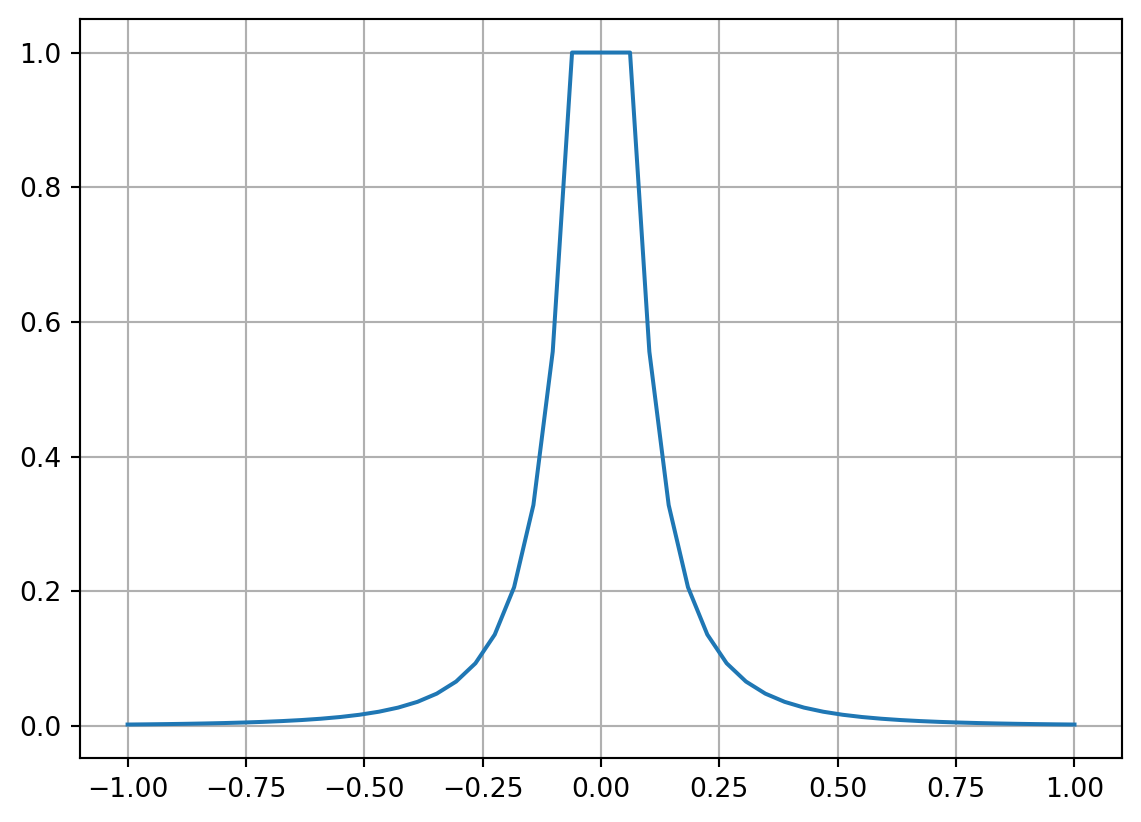
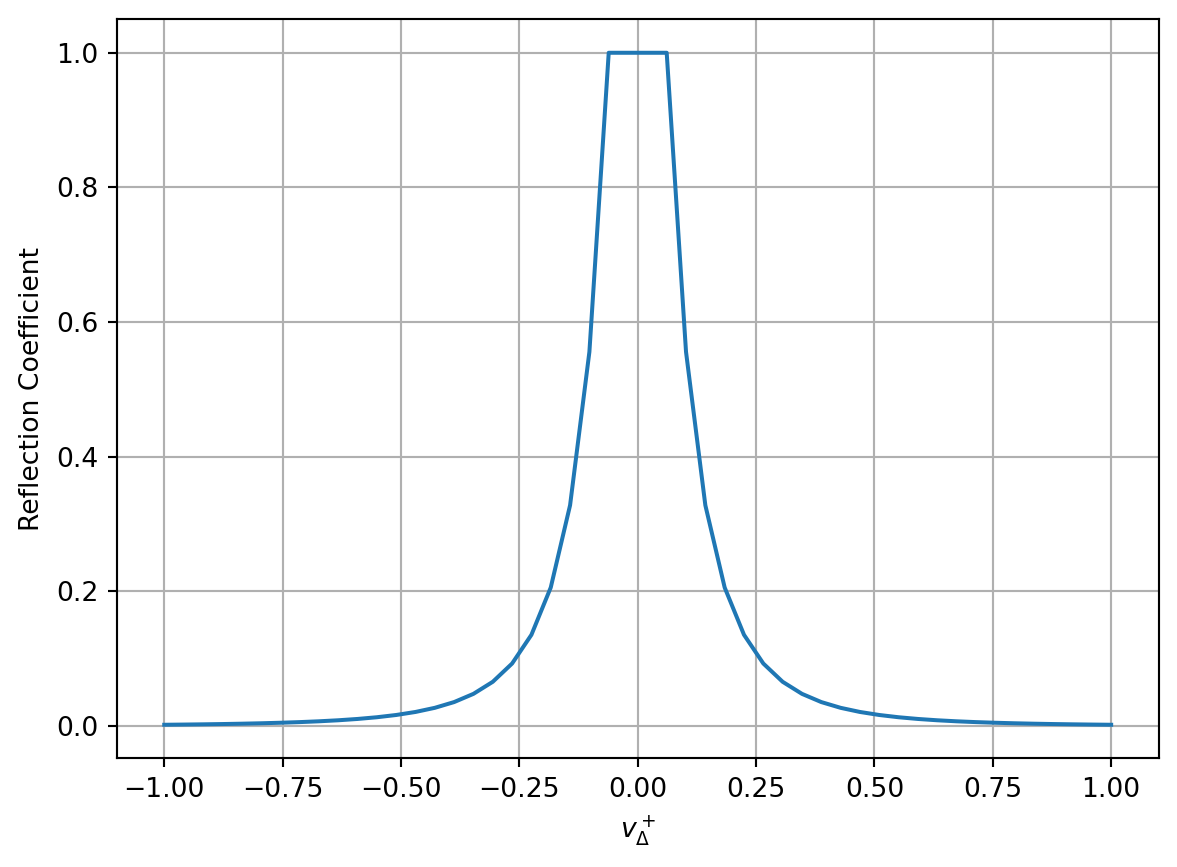
Spellcheck

Changed region(s): [[0.0, 0.0, 1.0, 0.9732], [0.7055, 0.517, 0.7669, 0.5779], [0.3067, 0.517, 0.3681, 0.5779]]

diff --git a/docs/posts/bow_table/bow_table.html b/docs/posts/bow_table/bow_table.html
@@ -6,10 +6,9 @@
 
 <meta name="viewport" content="width=device-width, initial-scale=1.0, user-scalable=yes">
 
-<meta name="author" content="Alexandre St-Onge">
 <meta name="dcterms.date" content="2023-09-16">
 
-<title>SegfaultDSP - Bow Table</title>
+<title>SegfaultDSP - BowedString Part 2: Bow Table</title>
 <style>
 code{white-space: pre-wrap;}
 span.smallcaps{font-variant: small-caps;}
@@ -135,19 +134,13 @@ pre > code.sourceCode > span > a:first-child::before { text-decoration: underlin
 <header id="title-block-header" class="quarto-title-block default page-columns page-full">
   <div class="quarto-title-banner page-columns page-full">
     <div class="quarto-title column-body">
-      <h1 class="title">Bow Table</h1>
+      <h1 class="title">BowedString Part 2: Bow Table</h1>
                       </div>
   </div>
     
   
   <div class="quarto-title-meta">
 
-      <div>
-      <div class="quarto-title-meta-heading">Author</div>
-      <div class="quarto-title-meta-contents">
-               <p>Alexandre St-Onge </p>
-            </div>
-    </div>
       
       <div>
       <div class="quarto-title-meta-heading">Published</div>
@@ -170,10 +163,13 @@ pre > code.sourceCode > span > a:first-child::before { text-decoration: underlin
 
 
 
+<p>Now that we have our working waveguide, we need something to excite it. This is done with the help of a <a href="https://ccrma.stanford.edu/~jos/BowedStrings/Simplified_Piecewise_Linear_Bow.html">bow table</a>. While the linear bow table would be simple to implement, we would need to know the capture or break-away differential velocity value <span class="math inline">\(v_\Delta^c\)</span> and also how this value responds to varying force values. I could not find a simple way to find these values but luckily, the <a href="https://github.com/thestk/stk">STK</a> library has a bow table that we can reuse.</p>
 <p>Let’s take a look at the bow table as defined in the <a href="https://github.com/thestk/stk/blob/d0345712db51a01d8d6ca44980c56798a54b0fc3/include/BowTable.h#L84">stk</a>:</p>
-<p><span class="math display">\[ BowTable(v_\Delta^+) = \min \left \{(|v_\Delta^+|*f_{bow} + 0.75)^{-4}, 1 \right \} \]</span></p>
-<p>Where <span class="math inline">\(v_\Delta^+\)</span> is the velocity of the bow minus the velocity of the string going into the bow and <span class="math inline">\(f_{bow}\)</span> is the bow force. While the equation may seem daunting at first, we can easily plot it and immediatly recognize a shape similar to the linear bow table as presented by figure <a href="https://ccrma.stanford.edu/~jos/pasp/Bow_String_Scattering_Junction.html">9.54</a> in Physical Audio Signal Processing by Julius O. Smith.</p>
+<p><span class="math display">\[ BowTable(v_\Delta^+) = \min \left \{(|v_\Delta^+|*Slope + 0.75)^{-4}, 1 \right \} \]</span></p>
+<p>Where <span class="math inline">\(v_\Delta^+\)</span> is the velocity of the bow minus the velocity of the string going into the bow and <span class="math inline">\(Slope\)</span> is the parameter that controls the shape of the table and is related to the bow force. While the equation may seem daunting at first, we can easily plot it and immediately recognize a shape similar to the linear bow table as presented by figure <a href="https://ccrma.stanford.edu/~jos/pasp/Bow_String_Scattering_Junction.html">9.54</a> in Physical Audio Signal Processing by Julius O. Smith.</p>
 <div class="cell" data-execution_count="1">
+<details>
+<summary>Code</summary>
 <div class="sourceCode cell-code" id="cb1"><pre class="sourceCode python code-with-copy"><code class="sourceCode python"><span id="cb1-1"><a href="#cb1-1" aria-hidden="true" tabindex="-1"></a><span class="im">import</span> numpy <span class="im">as</span> np</span>
 <span id="cb1-2"><a href="#cb1-2" aria-hidden="true" tabindex="-1"></a><span class="im">import</span> matplotlib.pyplot <span class="im">as</span> plt</span>
 <span id="cb1-3"><a href="#cb1-3" aria-hidden="true" tabindex="-1"></a><span class="im">from</span> matplotlib.ticker <span class="im">import</span> MultipleLocator</span>
@@ -185,13 +181,18 @@ pre > code.sourceCode > span > a:first-child::before { text-decoration: underlin
 <span id="cb1-9"><a href="#cb1-9" aria-hidden="true" tabindex="-1"></a></span>
 <span id="cb1-10"><a href="#cb1-10" aria-hidden="true" tabindex="-1"></a>plt.figure(<span class="dv">1</span>)</span>
 <span id="cb1-11"><a href="#cb1-11" aria-hidden="true" tabindex="-1"></a>plt.plot(v_delta, output)</span>
-<span id="cb1-12"><a href="#cb1-12" aria-hidden="true" tabindex="-1"></a>plt.grid()</span></code><button title="Copy to Clipboard" class="code-copy-button"><i class="bi"></i></button></pre></div>
+<span id="cb1-12"><a href="#cb1-12" aria-hidden="true" tabindex="-1"></a>plt.xlabel(<span class="st">'$v_\Delta^+$'</span>)</span>
+<span id="cb1-13"><a href="#cb1-13" aria-hidden="true" tabindex="-1"></a>plt.ylabel(<span class="st">'Reflection Coefficient'</span>)</span>
+<span id="cb1-14"><a href="#cb1-14" aria-hidden="true" tabindex="-1"></a>plt.grid()</span></code><button title="Copy to Clipboard" class="code-copy-button"><i class="bi"></i></button></pre></div>
+</details>
 <div class="cell-output cell-output-display">
-<p><img src="bow_table_files/figure-html/cell-2-output-1.png" width="571" height="411"></p>
+<p><img src="bow_table_files/figure-html/cell-2-output-1.png" alt="A graph showing the bow table as defined in the stk" width="589" height="434"></p>
 </div>
 </div>
-<p>We can now observe how varying the force transform bow table.</p>
+<p>We can now observe how varying the force transforms the bow table.</p>
 <div class="cell" data-execution_count="2">
+<details>
+<summary>Code</summary>
 <div class="sourceCode cell-code" id="cb2"><pre class="sourceCode python code-with-copy"><code class="sourceCode python"><span id="cb2-1"><a href="#cb2-1" aria-hidden="true" tabindex="-1"></a>v_delta <span class="op">=</span> np.linspace(<span class="op">-</span><span class="dv">1</span>, <span class="dv">1</span>, <span class="dv">100</span>)</span>
 <span id="cb2-2"><a href="#cb2-2" aria-hidden="true" tabindex="-1"></a></span>
 <span id="cb2-3"><a href="#cb2-3" aria-hidden="true" tabindex="-1"></a>plt.figure(<span class="dv">2</span>)</span>
@@ -199,42 +200,49 @@ pre > code.sourceCode > span > a:first-child::before { text-decoration: underlin
 <span id="cb2-5"><a href="#cb2-5" aria-hidden="true" tabindex="-1"></a>    output <span class="op">=</span> np.minimum(<span class="bu">pow</span>(<span class="bu">abs</span>(v_delta) <span class="op">*</span> f <span class="op">+</span> <span class="fl">0.75</span>, <span class="op">-</span><span class="dv">4</span>), <span class="dv">1</span>)</span>
 <span id="cb2-6"><a href="#cb2-6" aria-hidden="true" tabindex="-1"></a>    plt.plot(v_delta, output, label<span class="op">=</span><span class="ss">f'force=</span><span class="sc">{</span>f<span class="sc">}</span><span class="ss">'</span>)</span>
 <span id="cb2-7"><a href="#cb2-7" aria-hidden="true" tabindex="-1"></a>plt.legend()</span>
-<span id="cb2-8"><a href="#cb2-8" aria-hidden="true" tabindex="-1"></a>plt.grid()</span></code><button title="Copy to Clipboard" class="code-copy-button"><i class="bi"></i></button></pre></div>
+<span id="cb2-8"><a href="#cb2-8" aria-hidden="true" tabindex="-1"></a>plt.xlabel(<span class="st">'$v_</span><span class="ch">\\</span><span class="st">Delta^+$'</span>)</span>
+<span id="cb2-9"><a href="#cb2-9" aria-hidden="true" tabindex="-1"></a>plt.ylabel(<span class="st">'Reflection Coefficient'</span>)</span>
+<span id="cb2-10"><a href="#cb2-10" aria-hidden="true" tabindex="-1"></a>plt.grid()</span></code><button title="Copy to Clipboard" class="code-copy-button"><i class="bi"></i></button></pre></div>
+</details>
 <div class="cell-output cell-output-display">
-<p><img src="bow_table_files/figure-html/cell-3-output-1.png" width="571" height="411"></p>
+<p><img src="bow_table_files/figure-html/cell-3-output-1.png" width="589" height="434"></p>
 </div>
 </div>
-<p>See how as the “force” goes up, the region of the table where the reflection coefficient is 1 gets smaller. This is simply a quirk of the equation we are using as in reality, the more force is applied, the easier it will be for the string and bow to stick toghether. It is common to control parameter like these by assigning a value going from 0 to 1, which make this a little bit counterintuitive, but this is something that we will address later.</p>
-<p>For now, let’s try to find a usable range of value for <span class="math inline">\(f_{bow}\)</span>. To do so we can plot the same graph as before and adding <span class="math inline">\(f_{bow}\)</span> as a variable.</p>
-<div class="cell" data-execution_count="3">
-<div class="sourceCode cell-code" id="cb3"><pre class="sourceCode python code-with-copy"><code class="sourceCode python"><span id="cb3-1"><a href="#cb3-1" aria-hidden="true" tabindex="-1"></a>v_delta <span class="op">=</span> np.linspace(<span class="op">-</span><span class="dv">1</span>, <span class="dv">1</span>, <span class="dv">50</span>)</span>
-<span id="cb3-2"><a href="#cb3-2" aria-hidden="true" tabindex="-1"></a>f_bow <span class="op">=</span> np.linspace(<span class="dv">0</span>, <span class="dv">10</span>, <span class="dv">50</span>)</span>
-<span id="cb3-3"><a href="#cb3-3" aria-hidden="true" tabindex="-1"></a></span>
-<span id="cb3-4"><a href="#cb3-4" aria-hidden="true" tabindex="-1"></a>v_delta, f_bow <span class="op">=</span> np.meshgrid(v_delta, f_bow)</span>
-<span id="cb3-5"><a href="#cb3-5" aria-hidden="true" tabindex="-1"></a>output <span class="op">=</span> np.minimum(<span class="bu">pow</span>(<span class="bu">abs</span>(v_delta) <span class="op">*</span> f_bow <span class="op">+</span> <span class="fl">0.75</span>, <span class="op">-</span><span class="dv">4</span>), <span class="dv">1</span>)</span>
-<span id="cb3-6"><a href="#cb3-6" aria-hidden="true" tabindex="-1"></a></span>
-<span id="cb3-7"><a href="#cb3-7" aria-hidden="true" tabindex="-1"></a>fig, ax <span class="op">=</span> plt.subplots()</span>
-<span id="cb3-8"><a href="#cb3-8" aria-hidden="true" tabindex="-1"></a>surf <span class="op">=</span> ax.pcolormesh(</span>
-<span id="cb3-9"><a href="#cb3-9" aria-hidden="true" tabindex="-1"></a>    f_bow,</span>
-<span id="cb3-10"><a href="#cb3-10" aria-hidden="true" tabindex="-1"></a>    v_delta,</span>
-<span id="cb3-11"><a href="#cb3-11" aria-hidden="true" tabindex="-1"></a>    output,</span>
-<span id="cb3-12"><a href="#cb3-12" aria-hidden="true" tabindex="-1"></a>    linewidth<span class="op">=</span><span class="dv">0</span>,</span>
-<span id="cb3-13"><a href="#cb3-13" aria-hidden="true" tabindex="-1"></a>    cmap<span class="op">=</span><span class="st">'viridis'</span>,)</span>
-<span id="cb3-14"><a href="#cb3-14" aria-hidden="true" tabindex="-1"></a></span>
-<span id="cb3-15"><a href="#cb3-15" aria-hidden="true" tabindex="-1"></a>fig.colorbar(surf, shrink<span class="op">=</span><span class="fl">0.5</span>, aspect<span class="op">=</span><span class="dv">5</span>)</span>
-<span id="cb3-16"><a href="#cb3-16" aria-hidden="true" tabindex="-1"></a></span>
-<span id="cb3-17"><a href="#cb3-17" aria-hidden="true" tabindex="-1"></a>ax.yaxis.set_major_formatter(<span class="st">'</span><span class="sc">{x:.02f}</span><span class="st">'</span>)</span>
-<span id="cb3-18"><a href="#cb3-18" aria-hidden="true" tabindex="-1"></a>ax.xaxis.set_major_locator(MultipleLocator(<span class="dv">1</span>))</span>
-<span id="cb3-19"><a href="#cb3-19" aria-hidden="true" tabindex="-1"></a>ax.set_xlabel(<span class="st">'Bow Force'</span>)</span>
-<span id="cb3-20"><a href="#cb3-20" aria-hidden="true" tabindex="-1"></a>ax.set_ylabel(<span class="st">'v_delta'</span>)</span>
-<span id="cb3-21"><a href="#cb3-21" aria-hidden="true" tabindex="-1"></a>ax.dist <span class="op">=</span> <span class="dv">10</span></span></code><button title="Copy to Clipboard" class="code-copy-button"><i class="bi"></i></button></pre></div>
-<div class="cell-output cell-output-display">
-<p><img src="bow_table_files/figure-html/cell-4-output-1.png" width="591" height="431"></p>
-</div>
-</div>
-<p>Looking at the graph, we can immediatly see that once the bow force gets higher than 5, the reflection coefficient returned by the table stays consistent and there’s limited value for a bow table to support force value higher than 5. On the other hand, with a bow force value near 0, the table will always return a reflection coefficient of 1. From this, we can conclude that we will probably want to limit our bow force value between 1 and 5. And if we look at <a href="https://github.com/thestk/stk/blob/d0345712db51a01d8d6ca44980c56798a54b0fc3/src/Bowed.cpp#L155">bowed.cpp</a> we can see this equation:</p>
+<p>As <span class="math inline">\(Slope\)</span> goes up, the region of the table where the reflection coefficient is 1 gets smaller. This plateau represents the moment where the bow and the string are “sticking” together.</p>
+<p>We now need to find what is the usable range for <span class="math inline">\(Slope\)</span>. Looking at the STK again, we can see where the slope is set:</p>
+<p><a href="https://github.com/thestk/stk/blob/d0345712db51a01d8d6ca44980c56798a54b0fc3/src/Bowed.cpp#L155">bowed.cpp</a></p>
 <pre class="{c++}"><code>    bowTable_.setSlope( 5.0 - (4.0 * normalizedValue) );</code></pre>
-<p>Where <code>normalizedValue</code> is a value between 0 and 1. This equation solves our two problems: 1. It limits the bow force value between 1 and 5 2. An increasing <code>normalizedValue</code> now correspond to a higher bow force.</p>
+<p>Where <code>normalizedValue</code> is a value between 0 and 1 representing the bow pressure. This effectively restricts the slope value between 1 and 5. In other words, as the bow pressure increases, the ‘sticking’ zone of the bow table gets larger. We can plot the bow table equation again, but this time with varying force values between 0 and 10 to understand why.</p>
+<div class="cell" data-execution_count="3">
+<details>
+<summary>Code</summary>
+<div class="sourceCode cell-code" id="cb4"><pre class="sourceCode python code-with-copy"><code class="sourceCode python"><span id="cb4-1"><a href="#cb4-1" aria-hidden="true" tabindex="-1"></a>v_delta <span class="op">=</span> np.linspace(<span class="op">-</span><span class="dv">1</span>, <span class="dv">1</span>, <span class="dv">50</span>)</span>
+<span id="cb4-2"><a href="#cb4-2" aria-hidden="true" tabindex="-1"></a>f_bow <span class="op">=</span> np.linspace(<span class="dv">0</span>, <span class="dv">10</span>, <span class="dv">50</span>)</span>
+<span id="cb4-3"><a href="#cb4-3" aria-hidden="true" tabindex="-1"></a></span>
+<span id="cb4-4"><a href="#cb4-4" aria-hidden="true" tabindex="-1"></a>v_delta, f_bow <span class="op">=</span> np.meshgrid(v_delta, f_bow)</span>
+<span id="cb4-5"><a href="#cb4-5" aria-hidden="true" tabindex="-1"></a>output <span class="op">=</span> np.minimum(<span class="bu">pow</span>(<span class="bu">abs</span>(v_delta) <span class="op">*</span> f_bow <span class="op">+</span> <span class="fl">0.75</span>, <span class="op">-</span><span class="dv">4</span>), <span class="dv">1</span>)</span>
+<span id="cb4-6"><a href="#cb4-6" aria-hidden="true" tabindex="-1"></a></span>
+<span id="cb4-7"><a href="#cb4-7" aria-hidden="true" tabindex="-1"></a>fig, ax <span class="op">=</span> plt.subplots()</span>
+<span id="cb4-8"><a href="#cb4-8" aria-hidden="true" tabindex="-1"></a>surf <span class="op">=</span> ax.pcolormesh(</span>
+<span id="cb4-9"><a href="#cb4-9" aria-hidden="true" tabindex="-1"></a>    f_bow,</span>
+<span id="cb4-10"><a href="#cb4-10" aria-hidden="true" tabindex="-1"></a>    v_delta,</span>
+<span id="cb4-11"><a href="#cb4-11" aria-hidden="true" tabindex="-1"></a>    output,</span>
+<span id="cb4-12"><a href="#cb4-12" aria-hidden="true" tabindex="-1"></a>    linewidth<span class="op">=</span><span class="dv">0</span>,</span>
+<span id="cb4-13"><a href="#cb4-13" aria-hidden="true" tabindex="-1"></a>    cmap<span class="op">=</span><span class="st">'viridis'</span>,)</span>
+<span id="cb4-14"><a href="#cb4-14" aria-hidden="true" tabindex="-1"></a></span>
+<span id="cb4-15"><a href="#cb4-15" aria-hidden="true" tabindex="-1"></a>fig.colorbar(surf, shrink<span class="op">=</span><span class="fl">0.5</span>, aspect<span class="op">=</span><span class="dv">5</span>, label<span class="op">=</span><span class="st">'Reflection Coefficient'</span>)</span>
+<span id="cb4-16"><a href="#cb4-16" aria-hidden="true" tabindex="-1"></a></span>
+<span id="cb4-17"><a href="#cb4-17" aria-hidden="true" tabindex="-1"></a>ax.yaxis.set_major_formatter(<span class="st">'</span><span class="sc">{x:.02f}</span><span class="st">'</span>)</span>
+<span id="cb4-18"><a href="#cb4-18" aria-hidden="true" tabindex="-1"></a>ax.xaxis.set_major_locator(MultipleLocator(<span class="dv">1</span>))</span>
+<span id="cb4-19"><a href="#cb4-19" aria-hidden="true" tabindex="-1"></a>ax.set_xlabel(<span class="st">'$Slope$'</span>)</span>
+<span id="cb4-20"><a href="#cb4-20" aria-hidden="true" tabindex="-1"></a>ax.set_ylabel(<span class="st">'$v_</span><span class="ch">\\</span><span class="st">Delta^+$'</span>)</span>
+<span id="cb4-21"><a href="#cb4-21" aria-hidden="true" tabindex="-1"></a>ax.dist <span class="op">=</span> <span class="dv">10</span></span></code><button title="Copy to Clipboard" class="code-copy-button"><i class="bi"></i></button></pre></div>
+</details>
+<div class="cell-output cell-output-display">
+<p><img src="bow_table_files/figure-html/cell-4-output-1.png" width="614" height="433"></p>
+</div>
+</div>
+<p>Looking at the graph, we can immediately see that once the slope gets higher than 5, the reflection coefficient returned by the table stays consistent and there’s limited value for a bow table to support a slope value higher than 5. On the other hand, with a slope value <span class="math inline">\(&lt;1\)</span>, the table becomes almost flat.</p>
 
 
 

diff --git a/docs/posts/windowed_sinc/windowed_sinc.html b/docs/posts/windowed_sinc/windowed_sinc.html
@@ -6,7 +6,6 @@
 
 <meta name="viewport" content="width=device-width, initial-scale=1.0, user-scalable=yes">
 
-<meta name="author" content="Alexandre St-Onge">
 <meta name="dcterms.date" content="2023-09-16">
 
 <title>SegfaultDSP - Windowed sinc resampling</title>
@@ -140,12 +139,6 @@ pre > code.sourceCode > span > a:first-child::before { text-decoration: underlin
   
   <div class="quarto-title-meta">
 
-      <div>
-      <div class="quarto-title-meta-heading">Author</div>
-      <div class="quarto-title-meta-contents">
-               <p>Alexandre St-Onge </p>
-            </div>
-    </div>
       
       <div>
       <div class="quarto-title-meta-heading">Published</div>
@@ -177,7 +170,7 @@ pre > code.sourceCode > span > a:first-child::before { text-decoration: underlin
 <span id="cb1-5"><a href="#cb1-5" aria-hidden="true" tabindex="-1"></a><span class="im">from</span> scipy <span class="im">import</span> signal</span>
 <span id="cb1-6"><a href="#cb1-6" aria-hidden="true" tabindex="-1"></a><span class="im">from</span> math <span class="im">import</span> ceil</span></code><button title="Copy to Clipboard" class="code-copy-button"><i class="bi"></i></button></pre></div>
 </div>
-<p>Let’s define a function that will build our sinc table for us. The sinc table will only contain the “right wing” of the symmetric FIR filter. This function will also return a table of differences between successive FIR sample which will be useful to speed up our linear interpolation latter on.</p>
+<p>Let’s define a function that will build our sinc table for us. The sinc table will only contain the “right-wing” of the symmetric FIR filter. This function will also return a table of differences between successive FIR samples which will be useful to speed up our linear interpolation later on.</p>
 <div class="cell" data-execution_count="2">
 <div class="sourceCode cell-code" id="cb2"><pre class="sourceCode python code-with-copy"><code class="sourceCode python"><span id="cb2-1"><a href="#cb2-1" aria-hidden="true" tabindex="-1"></a><span class="kw">def</span> build_sinc_table(num_zeros, samples_per_crossing):</span>
 <span id="cb2-2"><a href="#cb2-2" aria-hidden="true" tabindex="-1"></a></span>
@@ -289,7 +282,7 @@ pre > code.sourceCode > span > a:first-child::before { text-decoration: underlin
 <p><img src="windowed_sinc_files/figure-html/cell-6-output-1.png" width="609" height="411"></p>
 </div>
 </div>
-<p>We are now ready to perform our own benchmark test. Inspired by the <a href="https://src.infinitewave.ca/">Infinite Wave</a> methodology, we will try to downsample a quadratic chirp signal from 96kHz to 44.1kHz.</p>
+<p>We are now ready to perform our benchmark test. Inspired by the <a href="https://src.infinitewave.ca/">Infinite Wave</a> methodology, we will try to downsample a quadratic chirp signal from 96kHz to 44.1kHz.</p>
 <div class="cell" data-execution_count="6">
 <div class="sourceCode cell-code" id="cb6"><pre class="sourceCode python code-with-copy"><code class="sourceCode python"><span id="cb6-1"><a href="#cb6-1" aria-hidden="true" tabindex="-1"></a>ORIGINAL_FS <span class="op">=</span> <span class="dv">96000</span></span>
 <span id="cb6-2"><a href="#cb6-2" aria-hidden="true" tabindex="-1"></a>CHIRP_LENGTH_SECONDS <span class="op">=</span> <span class="dv">8</span></span>
@@ -298,7 +291,7 @@ pre > code.sourceCode > span > a:first-child::before { text-decoration: underlin
 <span id="cb6-5"><a href="#cb6-5" aria-hidden="true" tabindex="-1"></a>time <span class="op">=</span> np.linspace(<span class="dv">0</span>, CHIRP_LENGTH_SECONDS, ORIGINAL_FS<span class="op">*</span>CHIRP_LENGTH_SECONDS)</span>
 <span id="cb6-6"><a href="#cb6-6" aria-hidden="true" tabindex="-1"></a>in_chirp <span class="op">=</span> signal.chirp(time, <span class="dv">0</span>, CHIRP_LENGTH_SECONDS, END_CHIRP_FREQUENCY, <span class="st">'quadratic'</span>) <span class="op">*</span> <span class="fl">0.6</span></span></code><button title="Copy to Clipboard" class="code-copy-button"><i class="bi"></i></button></pre></div>
 </div>
-<p>We will now resample that signal 3 different ways. First, we’ll use our <code>sinc_resample</code> method with a sinc table containing 13 zero crossing and then again with a table containing 32 zero crossing. This should allow us to see how the number of zero crossing in our table affects the lowpass filtering of our implementation. Lastly, we will use numpy to resample the signal using linear interpolation so that we can compare our algorithm against a fast a common resampling method.</p>
+<p>We will now resample that signal in 3 different ways. First, we’ll use our <code>sinc_resample</code> method with a sinc table containing 13 zero crossings and then again with a table containing 32 zero crossings. This should allow us to see how the number of zero crossing in our table affects the lowpass filtering of our implementation. Lastly, we will use numpy to resample the signal using linear interpolation so that we can compare our algorithm against a fast common resampling method.</p>
 <div class="cell" data-execution_count="7">
 <div class="sourceCode cell-code" id="cb7"><pre class="sourceCode python code-with-copy"><code class="sourceCode python"><span id="cb7-1"><a href="#cb7-1" aria-hidden="true" tabindex="-1"></a>TARGET_FS <span class="op">=</span> <span class="dv">44100</span></span>
 <span id="cb7-2"><a href="#cb7-2" aria-hidden="true" tabindex="-1"></a>RESAMPLING_RATIO <span class="op">=</span> TARGET_FS <span class="op">/</span> ORIGINAL_FS</span>
@@ -357,7 +350,7 @@ pre > code.sourceCode > span > a:first-child::before { text-decoration: underlin
 <p><img src="windowed_sinc_files/figure-html/cell-8-output-2.png" width="698" height="473"></p>
 </div>
 </div>
-<p>First, we can immediatly notice the the resampled output lost all content above the Nyquist frequency. This explain why half the spectrogram is empty. The downward line(s) around the 6 second mark is actually the higher frequency content present in the original file that are now folding around Nyqist. This is called aliasing. We can also see how the resampling done with 32 zeros show slightly less aliasing then the 13 zeros resampling.</p>
+<p>First, we can immediately notice that the resampled output lost all content above the Nyquist frequency. This explains why half the spectrogram is empty. The downward line(s) around the 6-second mark is the higher frequency content present in the original file that is now folding around Nyquist. This is called aliasing. We can also see how the resampling done with 32 zeros shows slightly less aliasing than the 13 zeros resampling.</p>
 <p>Let’s look at the impulse response of our resampler.</p>
 <div class="cell" data-execution_count="8">
 <div class="sourceCode cell-code" id="cb9"><pre class="sourceCode python code-with-copy"><code class="sourceCode python"><span id="cb9-1"><a href="#cb9-1" aria-hidden="true" tabindex="-1"></a>ORIGINAL_FS <span class="op">=</span> <span class="dv">96000</span></span>

diff --git a/docs/index.html b/docs/index.html
@@ -173,28 +173,7 @@ ul.task-list li input[type="checkbox"] {
 
 <div class="quarto-listing quarto-listing-container-default" id="listing-listing">
 <div class="list quarto-listing-default">
-<div class="quarto-post image-right" data-index="0" data-listing-file-modified-sort="1694984449153" data-listing-reading-time-sort="1">
-<div class="thumbnail">
-<p><a href="./posts/bowed_string_example/bowed_string_example.html"> <div class="listing-item-img-placeholder card-img-top" >&nbsp;</div> </a></p>
-</div>
-<div class="body">
-<a href="./posts/bowed_string_example/bowed_string_example.html">
-<h3 class="no-anchor listing-title">
-BowedString audio example
-</h3>
-<div class="listing-subtitle">
-
-</div>
-<div class="listing-description">
-Here’s a few audio examples of the BowedString instrument. This is the output of the string without going through the body filter.
-</div>
-</a>
-</div>
-<div class="metadata">
-<a href="./posts/bowed_string_example/bowed_string_example.html"> </a>
-</div>
-</div>
-<div class="quarto-post image-right" data-index="1" data-listing-date-sort="1694847600000" data-listing-file-modified-sort="1694895899980" data-listing-date-modified-sort="NaN" data-listing-reading-time-sort="7">
+<div class="quarto-post image-right" data-index="0" data-listing-date-sort="1694847600000" data-listing-file-modified-sort="1695489881195" data-listing-date-modified-sort="NaN" data-listing-reading-time-sort="7">
 <div class="thumbnail">
 <p><a href="./posts/windowed_sinc/windowed_sinc.html"> <p class="card-img-top"><img src="posts/windowed_sinc/windowed_sinc_files/figure-html/cell-4-output-1.png"  class="thumbnail-image card-img"/></p> </a></p>
 </div>
@@ -216,27 +195,24 @@ First, let’s get out python imports out of the way.
 <div class="listing-date">
 Sep 16, 2023
 </div>
-<div class="listing-author">
-Alexandre St-Onge
-</div>
 </a>
 </div>
 </div>
-<div class="quarto-post image-right" data-index="2" data-listing-date-sort="1694847600000" data-listing-file-modified-sort="1694920256333" data-listing-date-modified-sort="NaN" data-listing-reading-time-sort="3">
+<div class="quarto-post image-right" data-index="1" data-listing-date-sort="1694847600000" data-listing-file-modified-sort="1695489183755" data-listing-date-modified-sort="NaN" data-listing-reading-time-sort="3">
 <div class="thumbnail">
-<p><a href="./posts/bow_table/bow_table.html"> <p class="card-img-top"><img src="posts/bow_table/bow_table_files/figure-html/cell-2-output-1.png"  class="thumbnail-image card-img"/></p> </a></p>
+<p><a href="./posts/bow_table/bow_table.html"> <p class="card-img-top"><img src="posts/bow_table/bow_table_files/figure-html/cell-2-output-1.png" alt="A graph showing the bow table as defined in the stk"  class="thumbnail-image card-img"/></p> </a></p>
 </div>
 <div class="body">
 <a href="./posts/bow_table/bow_table.html">
 <h3 class="no-anchor listing-title">
-Bow Table
+BowedString Part 2: Bow Table
 </h3>
 <div class="listing-subtitle">
 
 </div>
 <div class="listing-description">
 
-Let’s take a look at the bow table as defined in the stk:
+Now that we have our working waveguide, we need something to excite it. This is done with the help of a bow table. While the linear bow table would be simple to implement, we would…<span class="math inline"></span>
 </div>
 </a>
 </div>
@@ -245,8 +221,30 @@ Let’s take a look at the bow table as defined in the stk:
 <div class="listing-date">
 Sep 16, 2023
 </div>
-<div class="listing-author">
-Alexandre St-Onge
+</a>
+</div>
+</div>
+<div class="quarto-post image-right" data-index="2" data-listing-date-sort="1694847600000" data-listing-file-modified-sort="1695489367361" data-listing-date-modified-sort="NaN" data-listing-reading-time-sort="1">
+<div class="thumbnail">
+<p><a href="./posts/bowed_string_example/bowed_string_example.html"> <div class="listing-item-img-placeholder card-img-top" >&nbsp;</div> </a></p>
+</div>
+<div class="body">
+<a href="./posts/bowed_string_example/bowed_string_example.html">
+<h3 class="no-anchor listing-title">
+BowedString Part 3: BowedString audio example
+</h3>
+<div class="listing-subtitle">
+
+</div>
+<div class="listing-description">
+Here are a few audio examples of the BowedString instrument in its current state. As…
+</div>
+</a>
+</div>
+<div class="metadata">
+<a href="./posts/bowed_string_example/bowed_string_example.html">
+<div class="listing-date">
+Sep 16, 2023
 </div>
 </a>
 </div>

diff --git a/docs/posts/bowed_string_example/bowed_string_example.html b/docs/posts/bowed_string_example/bowed_string_example.html
@@ -6,8 +6,9 @@
 
 <meta name="viewport" content="width=device-width, initial-scale=1.0, user-scalable=yes">
 
+<meta name="dcterms.date" content="2023-09-16">
 
-<title>SegfaultDSP - BowedString audio example</title>
+<title>SegfaultDSP - BowedString Part 3: BowedString audio example</title>
 <style>
 code{white-space: pre-wrap;}
 span.smallcaps{font-variant: small-caps;}
@@ -97,7 +98,7 @@ ul.task-list li input[type="checkbox"] {
 <header id="title-block-header" class="quarto-title-block default page-columns page-full">
   <div class="quarto-title-banner page-columns page-full">
     <div class="quarto-title column-body">
-      <h1 class="title">BowedString audio example</h1>
+      <h1 class="title">BowedString Part 3: BowedString audio example</h1>
                       </div>
   </div>
     
@@ -105,6 +106,12 @@ ul.task-list li input[type="checkbox"] {
   <div class="quarto-title-meta">
 
       
+      <div>
+      <div class="quarto-title-meta-heading">Published</div>
+      <div class="quarto-title-meta-contents">
+        <p class="date">September 16, 2023</p>
+      </div>
+    </div>
     
       
     </div>
@@ -120,9 +127,10 @@ ul.task-list li input[type="checkbox"] {
 
 
 
-<p>Here’s a few audio examples of the BowedString instrument. This is the output of the string without going through the body filter.</p>
+<p>Here are a few audio examples of the BowedString instrument in its current state. As a reminder, what we have right now is a digital waveguide with a nut and bridge. The bridge has a slight low-pass filter. The string is excited by the bow model we discussed in <a href="../../posts/bow_table/bow_table.html">part 2</a>.</p>
+<p>If these sound cold and robotic, that is to be expected. The body filter is missing and all of these samples were generated by C++ code with all of the parameters moving in a perfectly linear way. It is helpful to have simple and easily reproducible sounds to test the code with and will make debugging and tuning the instrument much easier.</p>
 <ol type="1">
-<li>Velocity and Force sweep from 0 to 1 then back to 0</li>
+<li>Velocity and Force sweep from 0 to 1 then back to 0.</li>
 </ol>
 
 <audio controls="">
@@ -140,7 +148,7 @@ ul.task-list li input[type="checkbox"] {
 
 <hr>
 <ol start="3" type="1">
-<li>Vibrato</li>
+<li>Vibrato. The length of the string is modulated by a sine wave.</li>
 </ol>
 
 <audio controls="">
@@ -149,7 +157,7 @@ ul.task-list li input[type="checkbox"] {
 
 <hr>
 <ol start="4" type="1">
-<li>Pitch slide, 440Hz to 660Hz</li>
+<li>Pitch slide, 440Hz to 660Hz.</li>
 </ol>
 
 <audio controls="">
